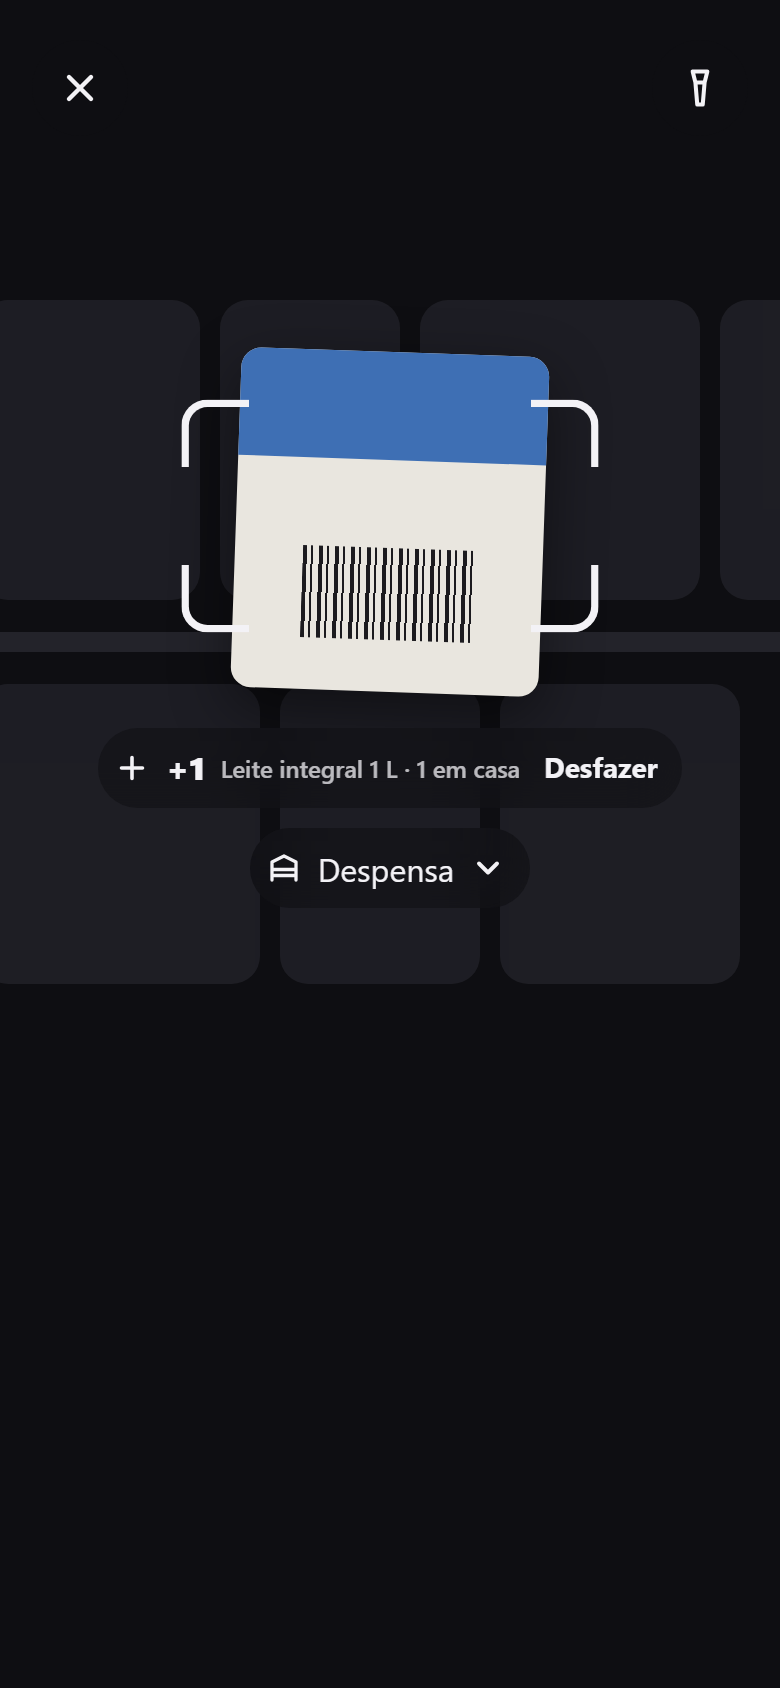
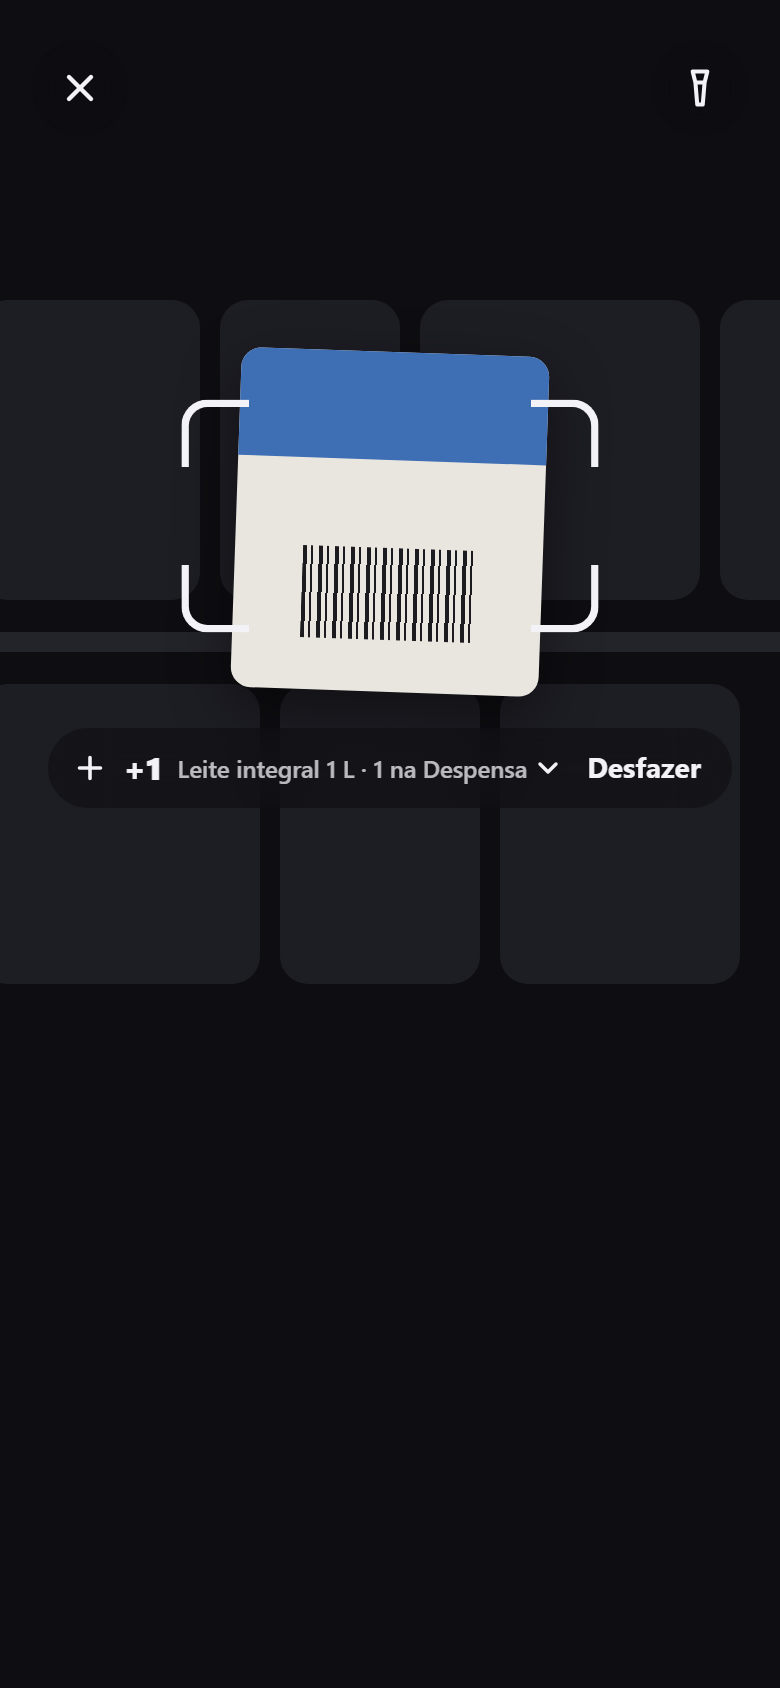
docs(design): põe o local do item novo dentro do aviso da câmera
No quadro "Guardar em casa, local do item novo", o chip do local sai de
baixo do aviso: o próprio aviso diz "Leite integral 1 L · 1 na Despensa"
com a seta para baixo, e o Desfazer fica ao lado, como dois botões no
mesmo aviso. O fundo da folha de escolha acompanha, e o título dela fica
sem artigo, como no app. Imagens refeitas com tool/prototipo/renderizar.js.

Changed region(s): [[0.1538, 0.4313, 0.8923, 0.4621], [0.3385, 0.4929, 0.5846, 0.5237], [0.0923, 0.4313, 0.1231, 0.4621]]

diff --git a/docs/design/prototipo/fonte/CapturaCasaLocalEscolha.dc.html b/docs/design/prototipo/fonte/CapturaCasaLocalEscolha.dc.html
@@ -28,11 +28,16 @@ a{color:#1C1B22}a:hover{color:#B00E28}
 .pack::before{content:"";position:absolute;left:0;right:0;top:0;height:54px;border-radius:10px 10px 0 0;background:#3E6FB4}
 .pack i{position:absolute;left:34px;right:34px;bottom:26px;height:46px;background:repeating-linear-gradient(90deg,#1C1B1F 0 2px,transparent 2px 4px,#1C1B1F 4px 5px,transparent 5px 8px)}
 .below{position:absolute;left:16px;right:16px;top:364px;display:grid;justify-items:center;gap:10px;z-index:3}
-/* O aviso do visor (LiveReadChip no app): ícone, o número em destaque, o texto e a ação. */
-.read-chip{max-width:100%;box-sizing:border-box;border:0;cursor:pointer}
+/* O aviso do visor (LiveReadChip no app): ícone, o número em destaque, o texto e a ação.
+   Com o item novo, o texto diz o local e é um botão com a seta para baixo (abre a escolha),
+   e o Desfazer é outro botão no mesmo aviso: um sinal só, sem chip separado (AB9). */
+.read-chip{max-width:100%;box-sizing:border-box;border:0;padding:0;gap:0}
 .read-chip b{font:800 16px/20px var(--font-display);font-variant-numeric:tabular-nums}
 .read-chip .bipa-chip__meta{overflow:hidden;text-overflow:ellipsis;white-space:nowrap}
-.read-chip .act{margin-left:4px;font:700 14px/18px var(--font-body);color:var(--on-camera)}
+.read-chip button{display:inline-flex;align-items:center;min-width:0;height:48px;margin:-4px 0;padding:0;border:0;background:none;color:inherit;font:inherit;cursor:pointer}
+.read-chip .place{gap:var(--space-2);padding-left:var(--space-3);padding-right:4px}
+.read-chip .place .down{width:16px;height:16px;margin-left:-6px}
+.read-chip .act{padding:0 var(--space-4) 0 var(--space-2);font:700 14px/18px var(--font-body);color:var(--on-camera)}
 .hint{font:700 14px/18px var(--font-body);color:var(--on-camera);text-align:center}
 
 .dim{position:absolute;inset:0;background:rgba(0,0,0,.45);z-index:4}
@@ -54,12 +59,12 @@ a{color:#1C1B22}a:hover{color:#B00E28}
     <button class="glass-btn" type="button" aria-label="Lanterna"><svg width="22" height="22" viewBox="0 0 24 24" fill="none" stroke="currentColor" stroke-width="2.2" stroke-linecap="round" stroke-linejoin="round" aria-hidden="true"><path d="M8 3h8l-1.5 6h-5zM9.5 9l1 12h3l1-12"/></svg></button>
   </div>
   <div class="below">
-    <button class="bipa-chip bipa-chip--glass read-chip" type="button" role="status" aria-label="+1, Leite integral 1 L · 1 em casa, Desfazer"><svg width="18" height="18" viewBox="0 0 24 24" fill="none" stroke="currentColor" stroke-width="2.4" stroke-linecap="round" stroke-linejoin="round" aria-hidden="true"><path d="M12 5v14M5 12h14"/></svg><b>+1</b><span class="bipa-chip__meta">Leite integral 1&nbsp;L · 1 em casa</span><span class="act">Desfazer</span></button>
+    <div class="bipa-chip bipa-chip--glass read-chip" role="status"><button class="place" type="button" aria-label="+1, Leite integral 1 L · 1 na Despensa, trocar o local"><svg width="18" height="18" viewBox="0 0 24 24" fill="none" stroke="currentColor" stroke-width="2.4" stroke-linecap="round" stroke-linejoin="round" aria-hidden="true"><path d="M12 5v14M5 12h14"/></svg><b>+1</b><span class="bipa-chip__meta">Leite integral 1&nbsp;L · 1 na Despensa</span><svg class="down" width="16" height="16" viewBox="0 0 24 24" fill="none" stroke="currentColor" stroke-width="2.6" stroke-linecap="round" stroke-linejoin="round" aria-hidden="true"><path d="M6 9l6 6 6-6"/></svg></button><button class="act" type="button">Desfazer</button></div>
   </div>
   <div class="dim" aria-hidden="true"></div>
   <section class="sheet" aria-labelledby="local-titulo">
     <span class="handle" aria-hidden="true"></span>
-    <h2 class="sheet-title" id="local-titulo">Onde fica o Leite integral 1&nbsp;L?</h2>
+    <h2 class="sheet-title" id="local-titulo">Onde fica Leite integral 1&nbsp;L?</h2>
     <div class="bipa-filter place-pick" role="radiogroup" aria-labelledby="local-titulo">
       <button type="button" role="radio" aria-checked="true" aria-pressed="true"><svg width="18" height="18" viewBox="0 0 24 24" fill="none" stroke="currentColor" stroke-width="1.9" stroke-linecap="round" stroke-linejoin="round" aria-hidden="true"><path d="M5 12.5l4.5 4.5L19 7.5"/></svg>Despensa</button>
       <button type="button" role="radio" aria-checked="false" aria-pressed="false"><svg width="18" height="18" viewBox="0 0 24 24" fill="none" stroke="currentColor" stroke-width="1.9" stroke-linecap="round" stroke-linejoin="round" aria-hidden="true"><rect x="5" y="3" width="14" height="18" rx="2.5"/><path d="M5 10h14M8 6.5v1M8 13v2"/></svg>Geladeira</button>

diff --git a/docs/design/prototipo/fonte/CapturaCasaLocal.dc.html b/docs/design/prototipo/fonte/CapturaCasaLocal.dc.html
@@ -28,14 +28,17 @@ a{color:#1C1B22}a:hover{color:#B00E28}
 .pack::before{content:"";position:absolute;left:0;right:0;top:0;height:54px;border-radius:10px 10px 0 0;background:#3E6FB4}
 .pack i{position:absolute;left:34px;right:34px;bottom:26px;height:46px;background:repeating-linear-gradient(90deg,#1C1B1F 0 2px,transparent 2px 4px,#1C1B1F 4px 5px,transparent 5px 8px)}
 .below{position:absolute;left:16px;right:16px;top:364px;display:grid;justify-items:center;gap:10px;z-index:3}
-/* O aviso do visor (LiveReadChip no app): ícone, o número em destaque, o texto e a ação. */
-.read-chip{max-width:100%;box-sizing:border-box;border:0;cursor:pointer}
+/* O aviso do visor (LiveReadChip no app): ícone, o número em destaque, o texto e a ação.
+   Com o item novo, o texto diz o local e é um botão com a seta para baixo (abre a escolha),
+   e o Desfazer é outro botão no mesmo aviso: um sinal só, sem chip separado (AB9). */
+.read-chip{max-width:100%;box-sizing:border-box;border:0;padding:0;gap:0}
 .read-chip b{font:800 16px/20px var(--font-display);font-variant-numeric:tabular-nums}
 .read-chip .bipa-chip__meta{overflow:hidden;text-overflow:ellipsis;white-space:nowrap}
-.read-chip .act{margin-left:4px;font:700 14px/18px var(--font-body);color:var(--on-camera)}
+.read-chip button{display:inline-flex;align-items:center;min-width:0;height:48px;margin:-4px 0;padding:0;border:0;background:none;color:inherit;font:inherit;cursor:pointer}
+.read-chip .place{gap:var(--space-2);padding-left:var(--space-3);padding-right:4px}
+.read-chip .place .down{width:16px;height:16px;margin-left:-6px}
+.read-chip .act{padding:0 var(--space-4) 0 var(--space-2);font:700 14px/18px var(--font-body);color:var(--on-camera)}
 .hint{font:700 14px/18px var(--font-body);color:var(--on-camera);text-align:center}
-
-.place-chip{border:0;cursor:pointer;font:700 14px/18px var(--font-body)}
 </style>
 </helmet>
 <div class="screen bipa-root" style="background: var(--camera);">
@@ -47,8 +50,7 @@ a{color:#1C1B22}a:hover{color:#B00E28}
     <button class="glass-btn" type="button" aria-label="Lanterna"><svg width="22" height="22" viewBox="0 0 24 24" fill="none" stroke="currentColor" stroke-width="2.2" stroke-linecap="round" stroke-linejoin="round" aria-hidden="true"><path d="M8 3h8l-1.5 6h-5zM9.5 9l1 12h3l1-12"/></svg></button>
   </div>
   <div class="below">
-    <button class="bipa-chip bipa-chip--glass read-chip" type="button" role="status" aria-label="+1, Leite integral 1 L · 1 em casa, Desfazer"><svg width="18" height="18" viewBox="0 0 24 24" fill="none" stroke="currentColor" stroke-width="2.4" stroke-linecap="round" stroke-linejoin="round" aria-hidden="true"><path d="M12 5v14M5 12h14"/></svg><b>+1</b><span class="bipa-chip__meta">Leite integral 1&nbsp;L · 1 em casa</span><span class="act">Desfazer</span></button>
-    <button class="bipa-chip bipa-chip--glass place-chip" type="button" aria-label="Leite integral 1 L está na Despensa. Trocar o local"><svg width="18" height="18" viewBox="0 0 24 24" fill="none" stroke="currentColor" stroke-width="2.2" stroke-linecap="round" stroke-linejoin="round" aria-hidden="true"><path d="M4 20V8l8-4 8 4v12M4 13h16M4 17h16"/></svg>Despensa <svg width="16" height="16" viewBox="0 0 24 24" fill="none" stroke="currentColor" stroke-width="2.6" stroke-linecap="round" stroke-linejoin="round" aria-hidden="true"><path d="M6 9l6 6 6-6"/></svg></button>
+    <div class="bipa-chip bipa-chip--glass read-chip" role="status"><button class="place" type="button" aria-label="+1, Leite integral 1 L · 1 na Despensa, trocar o local"><svg width="18" height="18" viewBox="0 0 24 24" fill="none" stroke="currentColor" stroke-width="2.4" stroke-linecap="round" stroke-linejoin="round" aria-hidden="true"><path d="M12 5v14M5 12h14"/></svg><b>+1</b><span class="bipa-chip__meta">Leite integral 1&nbsp;L · 1 na Despensa</span><svg class="down" width="16" height="16" viewBox="0 0 24 24" fill="none" stroke="currentColor" stroke-width="2.6" stroke-linecap="round" stroke-linejoin="round" aria-hidden="true"><path d="M6 9l6 6 6-6"/></svg></button><button class="act" type="button">Desfazer</button></div>
   </div>
 </div>
 </x-dc>
